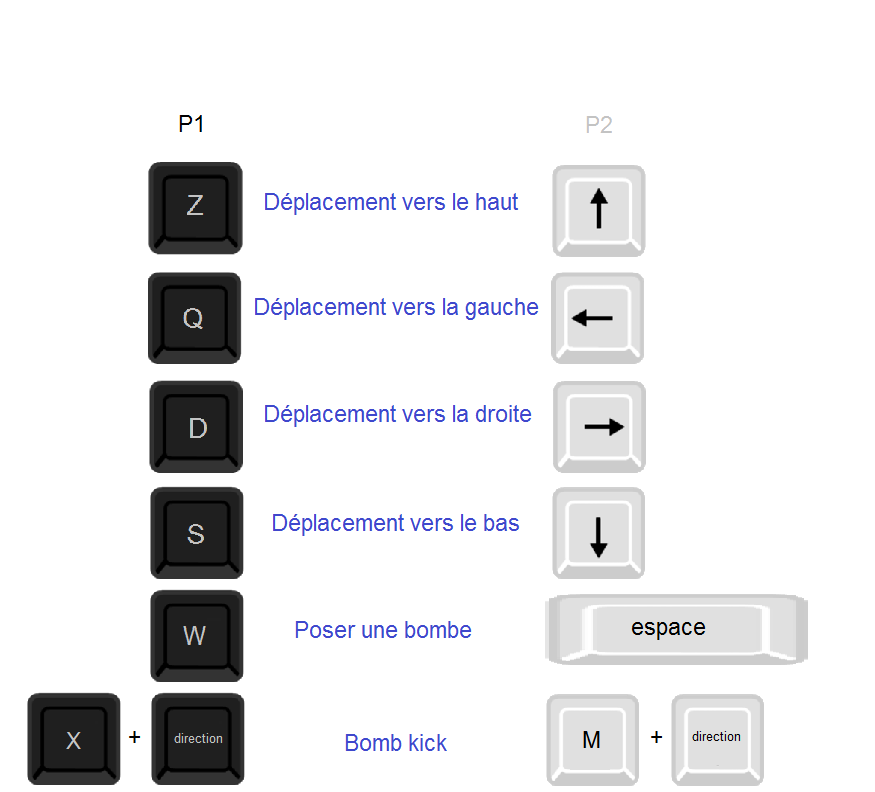
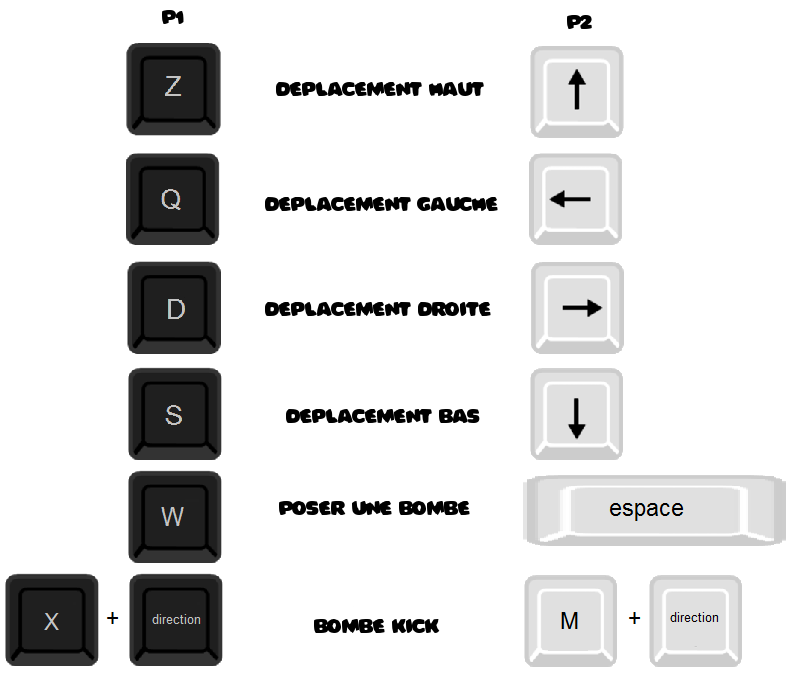
Design instruction

diff --git a/Bomberman/src/Instruction.java b/Bomberman/src/Instruction.java
@@ -34,7 +34,7 @@ public class Instruction {
 		StdDraw.clear(); // On clear la fenetre
 		StdDraw.setFont(bombermanFont());
 		StdDraw.picture(15, 8, "instructions.gif",30,18);
-    	StdDraw.picture(15.75, 10, "/bomberman_picture/instructions.png",18,18);
+    	StdDraw.picture(15.75, 8.5, "/bomberman_picture/instructions.png",19,14);
     	displayRect2(centerC, centerL, largeurRect, hauteurRect,"Retour au menu");	
     	if (StdDraw.mouseX() >= centerC-largeurRect && StdDraw.mouseX() <= centerC+largeurRect && StdDraw.mouseY() >= centerL - hauteurRect && StdDraw.mouseY() <= centerL + hauteurRect){
 			// Petit effet quand on place la souris sur le bouton
